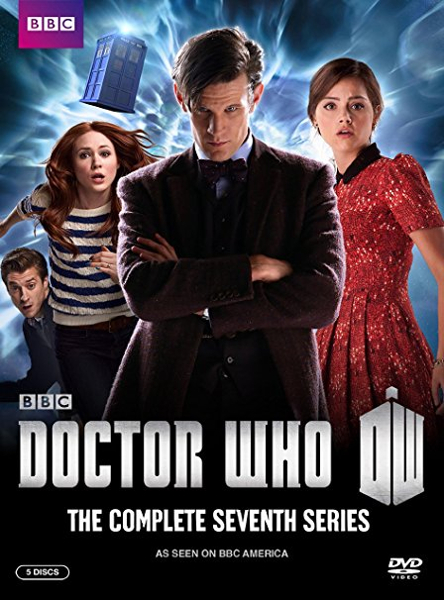
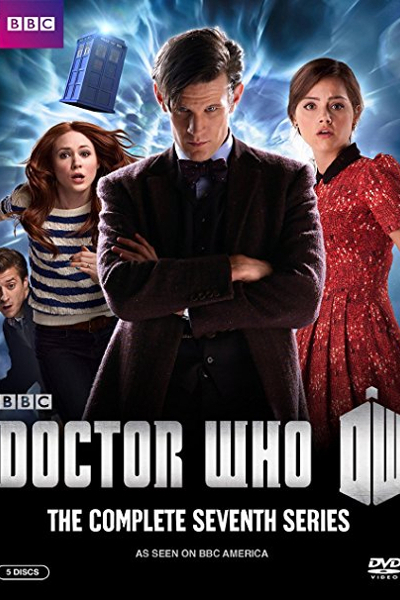
cropped series imgs for uniformity (carousel was 'jumping'); renamed CSS file

diff --git a/static/js/thehub.js b/static/js/thehub.js
@@ -146,13 +146,13 @@ function init_d3() {
 
 function setupCarousel(carouselName) {
   var carousel = new MultiCarousel({
-        target: document.getElementById(carouselName),
-        data: {
-          delay: 2000,
-          items: Array.prototype.slice.call(document.getElementById(carouselName).children),
-          count: 5
-        }
-      });
+    target: document.getElementById(carouselName),
+    data: {
+      delay: 2000,
+      items: Array.prototype.slice.call(document.getElementById(carouselName).children),
+      count: 5
+    }
+  });
       document.getElementById(carouselName).style.display = "block";
       // document.getElementById(carouselName + ".previous").onclick = function() {carousel.previous()}
 

diff --git a/templates/base.html b/templates/base.html
@@ -3,7 +3,7 @@
 <head>
   <title>The Hub</title>
   <link rel="stylesheet" href="https://maxcdn.bootstrapcdn.com/bootstrap/3.3.7/css/bootstrap.min.css">
-  <link rel="stylesheet" href="{{ url_for('static', filename='the_hub.css') }}">
+  <link rel="stylesheet" href="{{ url_for('static', filename='thehub.css') }}">
 
  {% block html_head %}
  {% endblock %}
